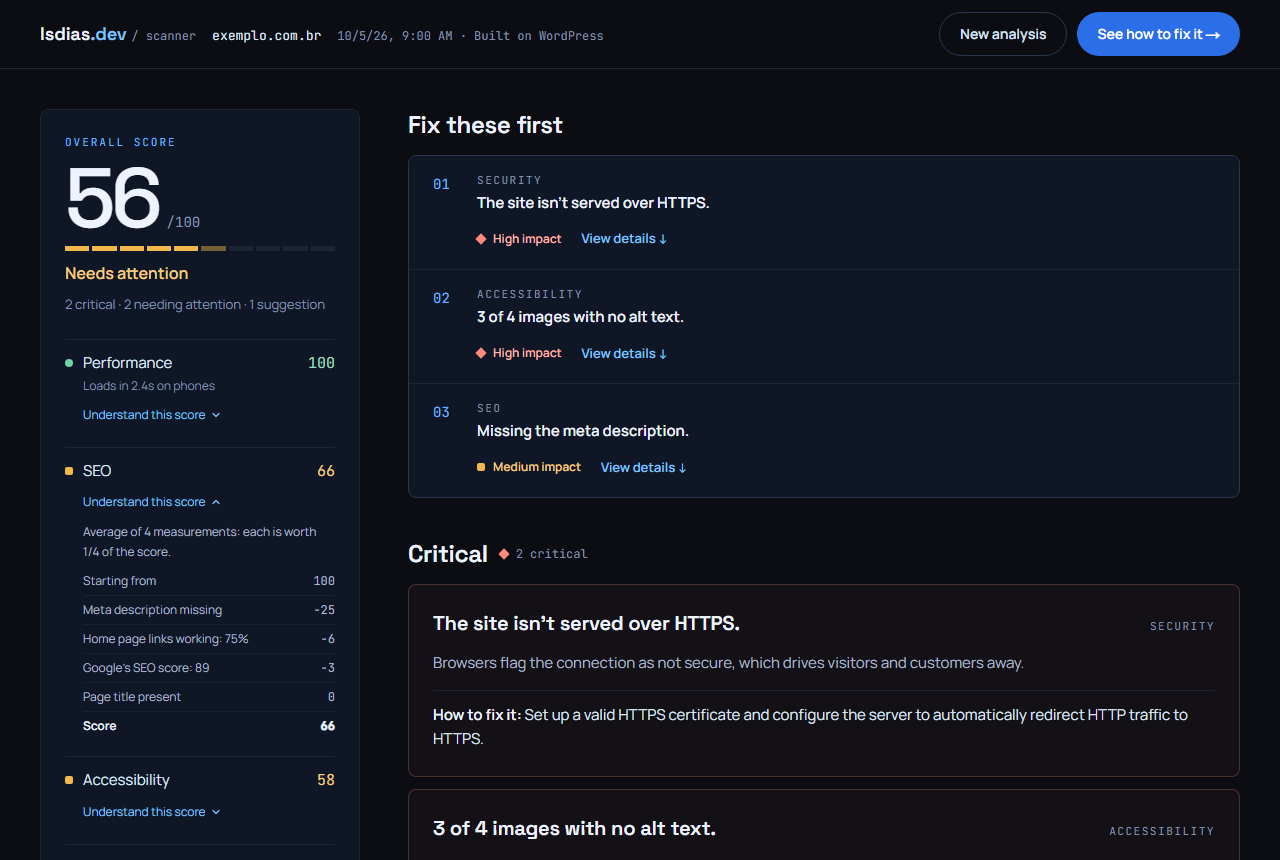
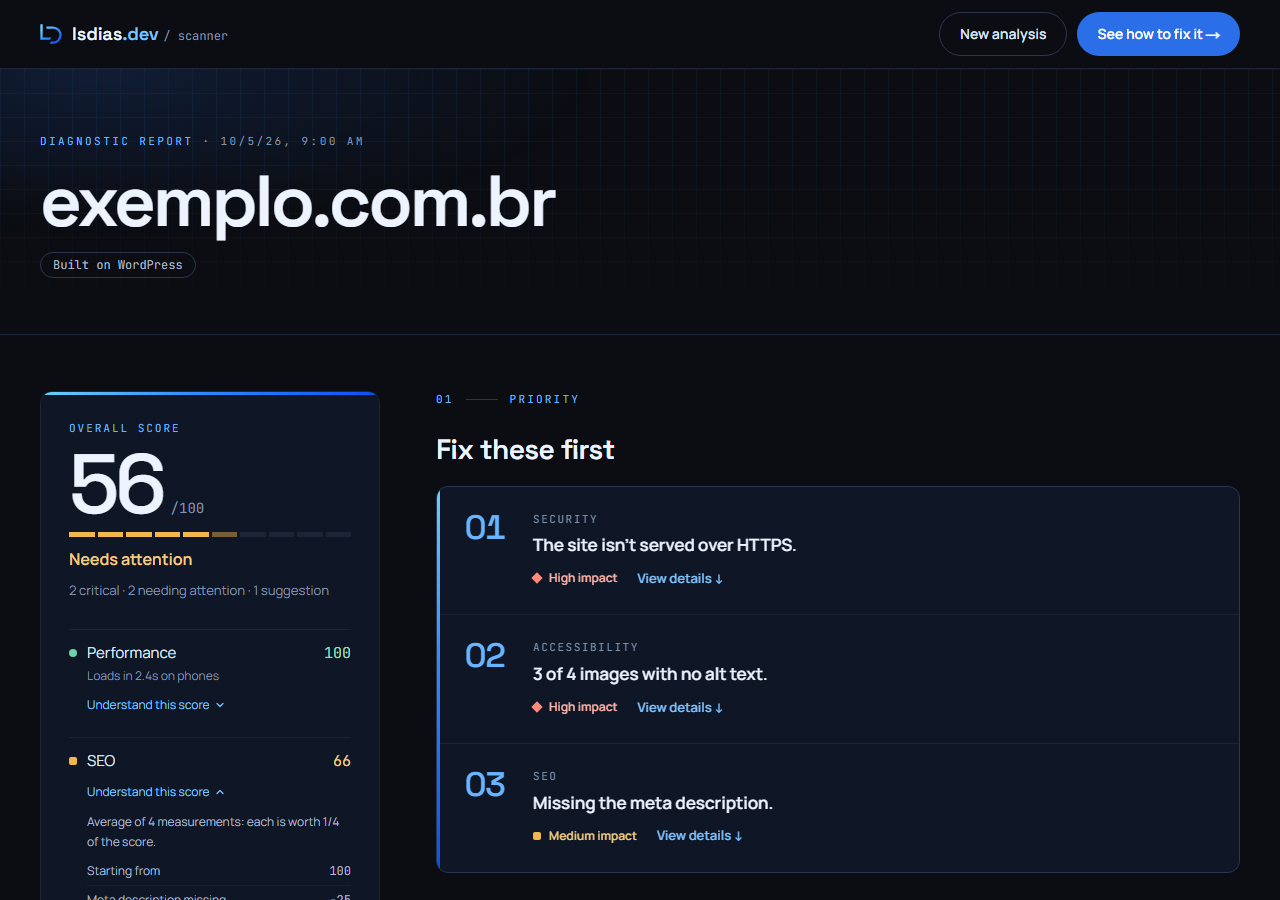
docs: new checks, batch and PDF in the README

diff --git a/README.pt-BR.md b/README.pt-BR.md
@@ -19,11 +19,12 @@ Eu avaliava sites de possíveis clientes à mão, em várias ferramentas, e trad
 
 ## Destaques
 
-- **Checagens próprias, mais as do Google.** HTTPS, cabeçalhos de segurança, metadados, texto alternativo, sitemap/robots.txt e links quebrados são implementados aqui; o PageSpeed Insights acrescenta as notas e auditorias do Lighthouse.
+- **Checagens próprias, mais as do Google.** HTTPS, cabeçalhos de segurança, metadados, indexação (`noindex`, regras do robots.txt), prévia em redes sociais, dados estruturados, idioma da página, conteúdo misto, favicon, texto alternativo, sitemap e links quebrados são implementados aqui; o PageSpeed Insights acrescenta as notas e auditorias do Lighthouse.
 - **Um relatório que se completa enquanto roda.** Cinco tarefas rodam juntas, cada uma com seu tempo limite. O relatório abre assim que as checagens próprias terminam (cerca de 3 s), por Server-Sent Events, e a medição do Google completa depois.
 - **Falha parcial é normal.** Um tempo esgotado ou um firewall afeta só a própria categoria, que diz por que ficou incompleta.
 - **Nota explicável e determinística.** Cada categoria é a média simples de medições com nome, e o relatório mostra quanto cada uma custou. Sem IA.
-- **Relatórios compartilháveis.** Cada relatório ganha um link próprio (`/pt-BR/report/<id>`) com imagem de prévia, guardado por 30 dias.
+- **Relatórios compartilháveis.** Cada relatório ganha um link próprio (`/pt-BR/report/<id>`) com imagem de prévia, guardado por 30 dias, e vira um PDF com capa na impressão.
+- **Análise em lote.** Com um código de acesso, uma lista de até 25 sites roda de dois em dois e sai em CSV.
 - **Uma execução por URL.** Análises iguais ao mesmo tempo dividem uma única chamada ao PageSpeed, com uma trava no Redis.
 - **URLs tratadas como entrada não confiável.** Redes privadas bloqueadas, cada redirecionamento conferido de novo, o endereço checado outra vez na conexão (DNS rebinding), tamanho de resposta limitado.
 
@@ -31,13 +32,13 @@ Eu avaliava sites de possíveis clientes à mão, em várias ferramentas, e trad
 
 | Área | Checagens próprias | Google PageSpeed Insights (celular) |
 |---|---|---|
-| Segurança | HTTPS, redirecionamento do `http://`, certificado; HSTS, CSP, proteção contra clickjacking | Nota de boas práticas |
-| SEO | Título, meta description, `sitemap.xml`, `robots.txt`, links quebrados (até 10) | Nota de SEO |
-| Acessibilidade | Viewport, texto alternativo (até 20 imagens) | Nota de acessibilidade, contraste, ordem dos títulos, rótulos de formulário |
+| Segurança | HTTPS, redirecionamento do `http://`, certificado; HSTS, CSP, proteção contra clickjacking; recursos carregados por `http://` | Nota de boas práticas |
+| SEO | Título, meta description, `noindex` (meta tag ou cabeçalho), regras do robots.txt para o Googlebot, prévia Open Graph, dados estruturados, favicon, `sitemap.xml`, links quebrados (até 10) | Nota de SEO |
+| Acessibilidade | Viewport, idioma da página, texto alternativo (até 20 imagens) | Nota de acessibilidade, contraste, ordem dos títulos, rótulos de formulário |
 | Performance | | Nota de performance, LCP, CLS, TTFB |
 | Contexto | Plataforma do site (WordPress, Wix, Squarespace, Shopify) | |
 
-Quando um site bloqueia o scanner mas não o Google, as auditorias do Lighthouse substituem as checagens de título, descrição, viewport e texto alternativo.
+Quando um site bloqueia o scanner mas não o Google, as auditorias do Lighthouse substituem as checagens de título, descrição, viewport, texto alternativo, indexação, idioma e conteúdo misto.
 
 ## Como funciona
 
@@ -51,9 +52,9 @@ flowchart LR
     W --> R
     I -- não --> L[Limite por IP<br/>+ trava]
     L --> H[HTTPS + cabeçalhos]
-    L --> P[HTML da página<br/>meta · alt · plataforma]
+    L --> P[HTML da página<br/>meta · alt · indexação · prévia]
     P --> K[Links quebrados]
-    L --> S[sitemap / robots]
+    L --> S[sitemap · robots · favicon]
     L --> G[PageSpeed]
     H & P & K & S --> PR[Relatório parcial]
     PR & G --> SC[Nota<br/>médias das medições]
@@ -61,11 +62,11 @@ flowchart LR
     F --> R[Relatório + link]
 ```
 
-A página é buscada uma vez e compartilhada por quatro checagens, então a análise leva mais ou menos o tempo da checagem mais lenta (em geral o PageSpeed). Quando as checagens próprias terminam, sai um relatório parcial, com as categorias que esperam o Google marcadas assim. Cada falha é classificada (bloqueio, tempo esgotado, inacessível, cota…) e ligada às categorias que dependem dela. Nota, achados e acertos são funções puras sobre um único objeto de resultados.
+A página é buscada uma vez e compartilhada pelos parsers de HTML e pela checagem de links, então a análise leva mais ou menos o tempo da checagem mais lenta (em geral o PageSpeed). Quando as checagens próprias terminam, sai um relatório parcial, com as categorias que esperam o Google marcadas assim. Cada falha é classificada (bloqueio, tempo esgotado, inacessível, cota…) e ligada às categorias que dependem dela. Nota, achados e acertos são funções puras sobre um único objeto de resultados.
 
 ## Nota
 
-Cada categoria é a média simples das suas medições de 0 a 100: uma nota do Google, uma checagem sim/não (100 ou 0) ou uma proporção, como a de links funcionando. A nota geral é a média das categorias que puderam ser medidas. Cada medição custa `(100 − valor) ÷ N` pontos, arredondados para somar exatamente a nota. Os achados são crítico, atenção ou sugestão, e sugestões nunca tiram pontos. "Corrija primeiro" ordena por gravidade e depois por pontos perdidos. Detalhes em [Arquitetura](docs/ARCHITECTURE.pt-BR.md#nota-e-achados).
+Cada categoria é a média simples das suas medições de 0 a 100: uma nota do Google, uma checagem sim/não (100 ou 0) ou uma proporção, como a de links funcionando. A nota geral é a média das categorias que puderam ser medidas. Cada medição custa `(100 − valor) ÷ N` pontos, arredondados para somar exatamente a nota. Os achados são crítico, atenção ou sugestão, e sugestões nunca tiram pontos. Uma página bloqueada para o Google soma um 0 ao SEO; uma liberada não soma nada, então nunca aumenta uma nota. "Corrija primeiro" ordena por gravidade e depois por pontos perdidos. Detalhes em [Arquitetura](docs/ARCHITECTURE.pt-BR.md#nota-e-achados).
 
 ## Stack
 
@@ -89,7 +90,7 @@ Next.js 16 (App Router, uma rota por idioma), React 19 (`<Activity>`, `<ViewTran
 
 ## Segurança e privacidade
 
-Erros chegam ao navegador só como códigos, conteúdo dos sites analisados nunca é renderizado como HTML, e a página roda sob uma CSP com nonce por requisição. A URL analisada vai para o Google PageSpeed; relatórios e a URL analisada ficam no Upstash por 30 dias, para os links de relatório funcionarem, e IPs por até 1 hora; mensagens de contato passam pelo Formspree. Sem analytics nem cookies de rastreamento; o único cookie guarda o idioma. O Vercel Speed Insights mede a velocidade das páginas, sem cookies e sem os IDs de relatório nem as URLs analisadas. Para relatar uma vulnerabilidade, veja [SECURITY.pt-BR.md](SECURITY.pt-BR.md).
+Erros chegam ao navegador só como códigos, conteúdo dos sites analisados nunca é renderizado como HTML, e a página roda sob uma CSP com nonce por requisição. A URL analisada vai para o Google PageSpeed; relatórios e a URL analisada ficam no Upstash por 30 dias, para os links de relatório funcionarem, e IPs por até 1 hora; mensagens de contato passam pelo Formspree. Sem analytics nem cookies de rastreamento; o único cookie guarda o idioma. O Vercel Speed Insights mede a velocidade das páginas, sem cookies e sem os IDs de relatório nem as URLs analisadas. A análise em lote exige um código de acesso (`BATCH_TOKEN`), que só libera o limite por IP. Para relatar uma vulnerabilidade, veja [SECURITY.pt-BR.md](SECURITY.pt-BR.md).
 
 ## Como rodar
 

diff --git a/README.md b/README.md
@@ -19,11 +19,12 @@ I used to check prospective clients' sites by hand in several tools and translat
 
 ## Highlights
 
-- **Own checks plus Google's.** HTTPS, security headers, metadata, alt text, sitemap/robots.txt and broken links are implemented here; PageSpeed Insights adds Lighthouse scores and audits.
+- **Own checks plus Google's.** HTTPS, security headers, metadata, indexing (`noindex`, robots.txt rules), social preview, structured data, page language, mixed content, favicon, alt text, sitemap and broken links are implemented here; PageSpeed Insights adds Lighthouse scores and audits.
 - **A report that fills in as it runs.** Five tasks run in parallel with their own timeouts. The report opens as soon as the scanner's own checks finish (about 3 s), streamed over Server-Sent Events, and Google's measurement completes it later.
 - **Partial failure is normal.** A timeout or a firewall only affects its own category, which says why it is incomplete.
 - **Explainable, deterministic scoring.** Each category is a plain average of named measurements, and the report shows what each one cost. No AI involved.
-- **Shareable reports.** Every report gets its own link (`/en/report/<id>`) with a preview image, kept for 30 days.
+- **Shareable reports.** Every report gets its own link (`/en/report/<id>`) with a preview image, kept for 30 days, and prints to a PDF with a cover.
+- **Batch mode.** With an access code, a list of up to 25 sites runs two at a time and exports to CSV.
 - **One run per URL.** Identical analyses at the same time share one PageSpeed run through a Redis lock.
 - **URLs treated as untrusted input.** Private networks blocked, every redirect rechecked, the address checked again at connection time (DNS rebinding), response size capped.
 
@@ -31,13 +32,13 @@ I used to check prospective clients' sites by hand in several tools and translat
 
 | Area | Own checks | Google PageSpeed Insights (mobile) |
 |---|---|---|
-| Security | HTTPS, `http://` redirect, certificate; HSTS, CSP, clickjacking protection | Best-practices score |
-| SEO | Title, meta description, `sitemap.xml`, `robots.txt`, broken links (up to 10) | SEO score |
-| Accessibility | Viewport, image alt text (up to 20 images) | Accessibility score, contrast, heading order, form labels |
+| Security | HTTPS, `http://` redirect, certificate; HSTS, CSP, clickjacking protection; resources loaded over `http://` | Best-practices score |
+| SEO | Title, meta description, `noindex` (meta tag or header), robots.txt rules for Googlebot, Open Graph preview, structured data, favicon, `sitemap.xml`, broken links (up to 10) | SEO score |
+| Accessibility | Viewport, page language, image alt text (up to 20 images) | Accessibility score, contrast, heading order, form labels |
 | Performance | | Performance score, LCP, CLS, TTFB |
 | Context | Site platform (WordPress, Wix, Squarespace, Shopify) | |
 
-When a site blocks the scanner but not Google, Lighthouse's audits stand in for the title, description, viewport and alt-text checks.
+When a site blocks the scanner but not Google, Lighthouse's audits stand in for the title, description, viewport, alt-text, indexing, language and mixed-content checks.
 
 ## How it works
 
@@ -51,9 +52,9 @@ flowchart LR
     W --> R
     I -- no --> L[Per-IP rate limit<br/>+ lock]
     L --> H[HTTPS + headers]
-    L --> P[Page HTML<br/>meta · alt · platform]
+    L --> P[Page HTML<br/>meta · alt · indexing · preview]
     P --> K[Broken links]
-    L --> S[sitemap / robots]
+    L --> S[sitemap · robots · favicon]
     L --> G[PageSpeed]
     H & P & K & S --> PR[Partial report]
     PR & G --> SC[Score<br/>averages of measurements]
@@ -61,11 +62,11 @@ flowchart LR
     F --> R[Report + share link]
 ```
 
-The page is fetched once and shared by four checks, so a scan takes about as long as its slowest check (usually PageSpeed). Once the scanner's own checks are in, a partial report is streamed, with the categories that wait on Google marked as such. Each failure is classified (blocked, timeout, unreachable, quota…) and attached to the categories that depend on it. Scoring, findings and passes are pure functions over one typed result object.
+The page is fetched once and shared by the HTML parsers and the link check, so a scan takes about as long as its slowest check (usually PageSpeed). Once the scanner's own checks are in, a partial report is streamed, with the categories that wait on Google marked as such. Each failure is classified (blocked, timeout, unreachable, quota…) and attached to the categories that depend on it. Scoring, findings and passes are pure functions over one typed result object.
 
 ## Scoring
 
-Each category is the plain average of its 0–100 measurements: a Google score, a yes/no check (100 or 0) or a share such as working links. The overall score averages the categories that could be measured. Each measurement costs `(100 − value) ÷ N` points, rounded so the costs add up to the score. Findings are critical, attention or suggestion, and suggestions never cost points. "Fix these first" ranks by severity, then points lost. Details in [Architecture](docs/ARCHITECTURE.md#scoring-and-findings).
+Each category is the plain average of its 0–100 measurements: a Google score, a yes/no check (100 or 0) or a share such as working links. The overall score averages the categories that could be measured. Each measurement costs `(100 − value) ÷ N` points, rounded so the costs add up to the score. Findings are critical, attention or suggestion, and suggestions never cost points. A page blocked from Google adds a 0 to SEO; an indexable one adds nothing, so it never raises a score. "Fix these first" ranks by severity, then points lost. Details in [Architecture](docs/ARCHITECTURE.md#scoring-and-findings).
 
 ## Stack
 
@@ -89,7 +90,7 @@ Next.js 16 (App Router, one route per language), React 19 (`<Activity>`, `<ViewT
 
 ## Security and privacy
 
-Errors reach the browser only as codes, content from analyzed sites is never rendered as HTML, and the page runs under a CSP with a per-request nonce. The analyzed URL goes to Google PageSpeed; reports and the analyzed URL are kept in Upstash for 30 days so report links work, and IPs for up to 1 hour; contact messages go through Formspree. No analytics or tracking cookies; the only cookie stores the language. Vercel Speed Insights measures page speed, without cookies and with report ids and analyzed URLs stripped. See [SECURITY.md](SECURITY.md) to report a vulnerability.
+Errors reach the browser only as codes, content from analyzed sites is never rendered as HTML, and the page runs under a CSP with a per-request nonce. The analyzed URL goes to Google PageSpeed; reports and the analyzed URL are kept in Upstash for 30 days so report links work, and IPs for up to 1 hour; contact messages go through Formspree. No analytics or tracking cookies; the only cookie stores the language. Vercel Speed Insights measures page speed, without cookies and with report ids and analyzed URLs stripped. Batch mode needs an access code (`BATCH_TOKEN`), which only lifts the per-IP limit. See [SECURITY.md](SECURITY.md) to report a vulnerability.
 
 ## Getting started
 
